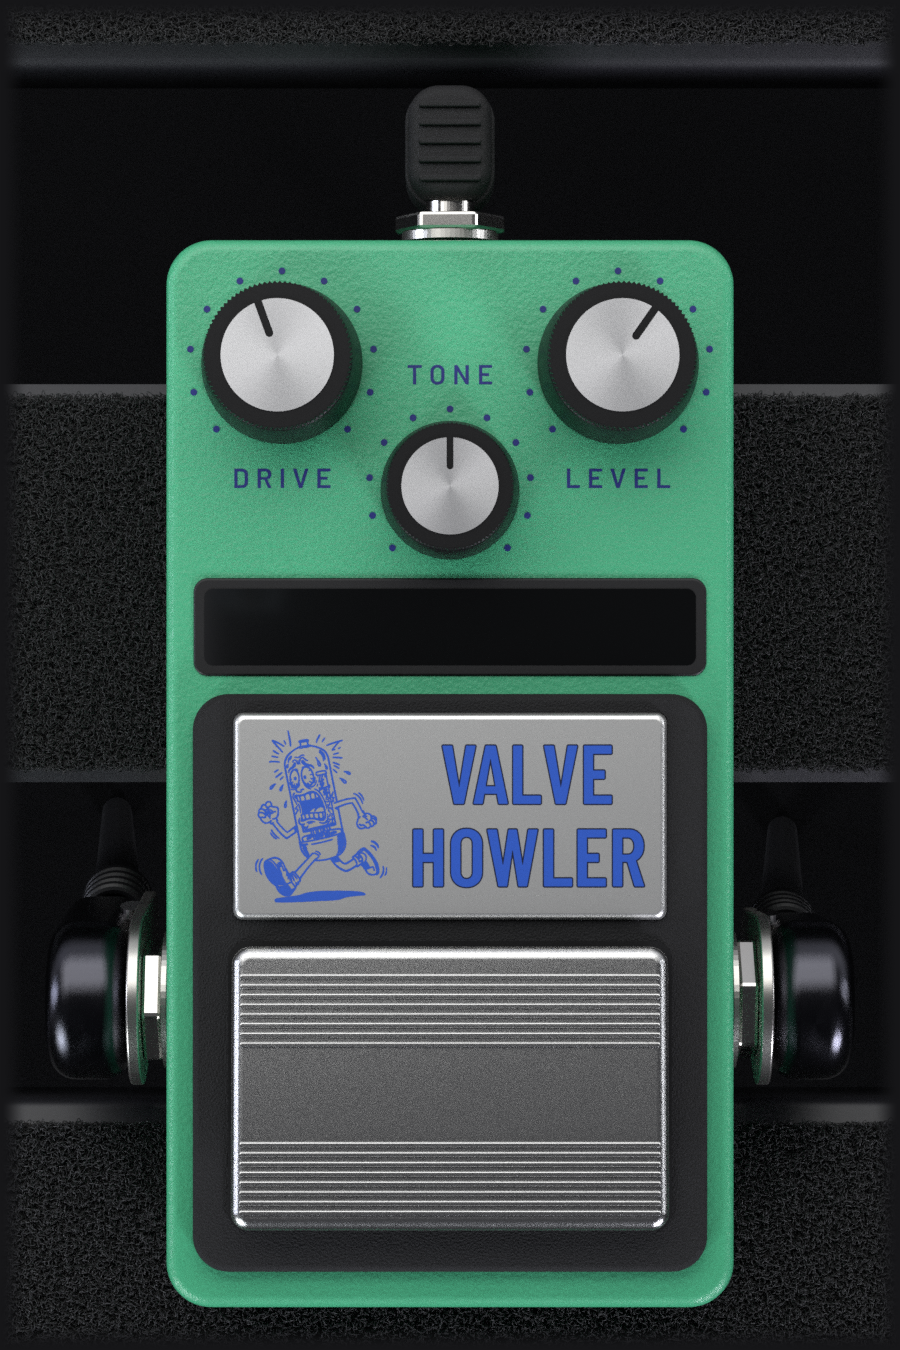
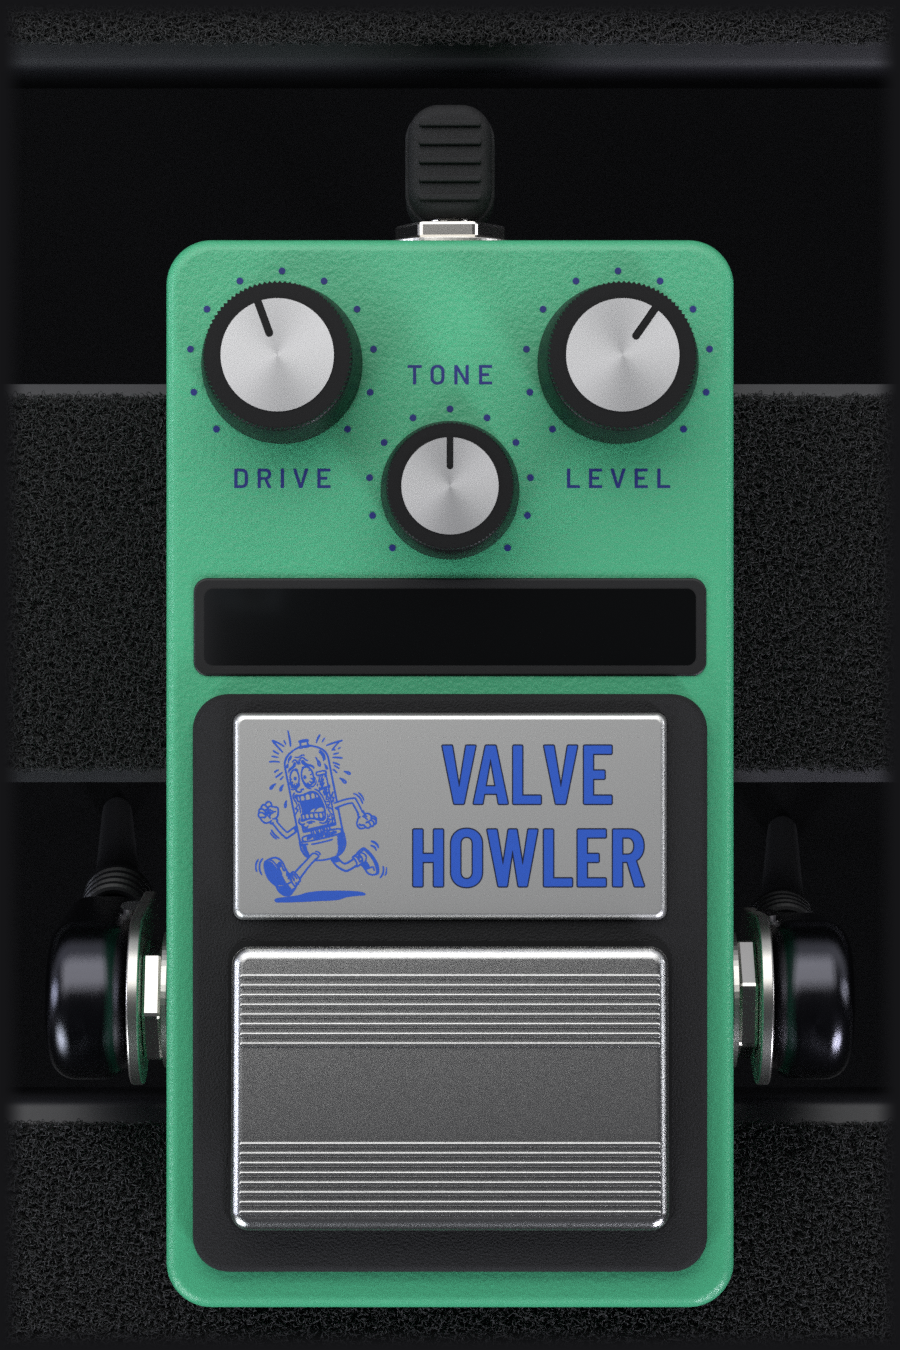
Valve Howler 1.4.4

diff --git a/src/ui_x11.cpp b/src/ui_x11.cpp
@@ -55,8 +55,13 @@
 #include <chrono>
 #include <cmath>
 #include <cstdint>
+#include <cstdlib>
 #include <cstring>
 #include <string>
+
+// Declared weak: libX11 before 1.7 has no per-connection I/O exit handler, and
+// the UI must still load there.
+#pragma weak XSetIOErrorExitHandler
 
 #define NLSC_UI_URI "https://nylarea.com/plugins/valvehowler#ui"
 
@@ -117,6 +122,7 @@ struct UI {
     Visual*  visual = nullptr;
     int      depth  = 0;                // the parent's; the popup uses it too
     Colormap cmap   = 0;                // ours, when the parent's visual is not the default
+    bool     x_dead = false;            // our connection is gone: no X call any more, the host closes us
     cairo_surface_t* surf = nullptr;
     cairo_t*         cr   = nullptr;
 
@@ -360,16 +366,19 @@ void popup_close(UI* ui)
 {
     Popup& p = ui->popup;
     if (!p.is_open) return;
-    XUngrabPointer(ui->dpy, CurrentTime);
-    XUngrabKeyboard(ui->dpy, CurrentTime);
+    const bool live = !ui->x_dead;
+    if (live) {
+        XUngrabPointer(ui->dpy, CurrentTime);
+        XUngrabKeyboard(ui->dpy, CurrentTime);
+    }
     if (p.bufcr) { cairo_destroy(p.bufcr); p.bufcr = nullptr; }
     if (p.buf)   { cairo_surface_destroy(p.buf); p.buf = nullptr; }
     if (p.cr)    { cairo_destroy(p.cr);   p.cr = nullptr; }
     if (p.surf)  { cairo_surface_destroy(p.surf); p.surf = nullptr; }
-    if (p.win)   { XDestroyWindow(ui->dpy, p.win); p.win = 0; }
+    if (p.win)   { if (live) XDestroyWindow(ui->dpy, p.win); p.win = 0; }
     p.is_open = false;
     p.hover = -1;
-    XFlush(ui->dpy);
+    if (live) XFlush(ui->dpy);
 }
 
 void popup_open(UI* ui)
@@ -666,31 +675,96 @@ void on_event(UI* ui, XEvent* ev)
 // 32-bit ARGB parent) or one the server does not know raises one. While any
 // instance of this UI is alive, a handler records errors on our connections and
 // hands every other error to whatever handler was installed before (the host's).
-// The handler is process-wide by Xlib's design, so it is installed with the
-// first instance and restored with the last.
+// The handler is process-wide by Xlib's design: it is installed ONCE per
+// process, with the first instance, and never put back. Putting the previous one
+// back with the last instance makes a cycle after a close and a reopen: a
+// handler installed after ours (or a second copy of this code, another pedal of
+// the family) chains to ours, and the reopen takes that handler as "previous" --
+// the host's next X error then loops for ever. Leaving ours installed is safe
+// only because the module is never unloaded: it is linked -z nodelete.
 // NLSC_UI_PARENT_VISUAL=0 builds a plain window with the default visual and no
-// error handler; it is not used by the plugin.
+// error handler; NLSC_UI_RESTORE_HANDLERS=1 installs the handler with the first
+// instance and puts the previous one back with the last. Both are for the gates'
+// negative arms only (harness/test_ui_parent.cpp, harness/test_ui_cycle.c).
 #ifndef NLSC_UI_PARENT_VISUAL
 #define NLSC_UI_PARENT_VISUAL 1
 #endif
+#ifndef NLSC_UI_RESTORE_HANDLERS
+#define NLSC_UI_RESTORE_HANDLERS 0
+#endif
 
 #if NLSC_UI_PARENT_VISUAL
+// Our connections are tracked in a list with no fixed size: an instance that
+// could not be tracked would hand its own errors to the host's handler, so when
+// the list cannot grow the instance is refused instead. The globals are not
+// locked: an LV2 host drives its UIs from its one UI thread (lv2/ui/ui.h).
 int (*g_prev_x_handler)(Display*, XErrorEvent*) = nullptr;
 int  g_ui_instances = 0;
-Display* g_ui_displays[16] = {};
+Display** g_ui_displays = nullptr;
+int  g_ui_ndisplays = 0, g_ui_cap = 0;
 bool g_x_error = false;
+bool g_handler_installed = false;
+
+// I/O errors take two handlers in Xlib: the process-wide one runs first and, by
+// default, exit()s the process -- the host; the per-connection exit handler
+// (ui_io_exit, libX11 1.7 and later) runs after it. Our process-wide handler,
+// installed once with the X error one and never put back, returns for OUR
+// connections (the exit handler then marks the instance dead, and the host is
+// asked to close it) and hands every other connection's error to the handler
+// installed before it: the host's own I/O errors behave as without us. On a
+// libX11 older than 1.7 Xlib still exits after ours returns.
+// NLSC_UI_NO_IO_EXIT=1 leaves Xlib's default I/O handling, and
+// NLSC_UI_SHIELD_CAP > 0 restores a fixed-size list that silently leaves the
+// extra connections untracked: both for the gates' negative arms only
+// (harness/test_ui_shield.c).
+#ifndef NLSC_UI_NO_IO_EXIT
+#define NLSC_UI_NO_IO_EXIT 0
+#endif
+#ifndef NLSC_UI_SHIELD_CAP
+#define NLSC_UI_SHIELD_CAP 0
+#endif
+int (*g_prev_io_handler)(Display*) = nullptr;
+
+bool is_ours(Display* d)
+{
+    for (int i = 0; i < g_ui_ndisplays; ++i)
+        if (g_ui_displays[i] == d) return true;
+    return false;
+}
 
 int ui_x_error(Display* d, XErrorEvent* e)
 {
-    for (Display* ours : g_ui_displays)
-        if (ours == d) { g_x_error = true; return 0; }
+    if (is_ours(d)) { g_x_error = true; return 0; }
     return g_prev_x_handler ? g_prev_x_handler(d, e) : 0;
 }
 
-void track_display(Display* d, bool add)
+int ui_io_error(Display* d)
 {
-    for (Display*& slot : g_ui_displays)
-        if (add ? slot == nullptr : slot == d) { slot = add ? d : nullptr; return; }
+    if (is_ours(d)) return 0;
+    return g_prev_io_handler ? g_prev_io_handler(d) : 0;
+}
+
+void ui_io_exit(Display*, void* user) { static_cast<UI*>(user)->x_dead = true; }
+
+// false when the list cannot grow (the caller then refuses the instance)
+bool track_display(Display* d, bool add)
+{
+    if (!add) {
+        for (int i = 0; i < g_ui_ndisplays; ++i)
+            if (g_ui_displays[i] == d) { g_ui_displays[i] = g_ui_displays[--g_ui_ndisplays]; break; }
+        if (g_ui_ndisplays == 0) { std::free(g_ui_displays); g_ui_displays = nullptr; g_ui_cap = 0; }
+        return true;
+    }
+    if (NLSC_UI_SHIELD_CAP > 0 && g_ui_ndisplays >= NLSC_UI_SHIELD_CAP) return true;
+    if (g_ui_ndisplays == g_ui_cap) {
+        const int cap = g_ui_cap ? 2 * g_ui_cap : 8;
+        auto* grown = static_cast<Display**>(std::realloc(g_ui_displays, size_t(cap) * sizeof(Display*)));
+        if (!grown) return false;
+        g_ui_displays = grown;
+        g_ui_cap = cap;
+    }
+    g_ui_displays[g_ui_ndisplays++] = d;
+    return true;
 }
 #endif
 
@@ -745,6 +819,9 @@ LV2UI_Handle instantiate(const LV2UI_Descriptor*, const char*, const char* bundl
 
     ui->dpy = XOpenDisplay(nullptr);
     if (!ui->dpy) { delete ui; return nullptr; }
+#if NLSC_UI_PARENT_VISUAL
+    if (!NLSC_UI_NO_IO_EXIT && XSetIOErrorExitHandler) XSetIOErrorExitHandler(ui->dpy, ui_io_exit, ui);
+#endif
 
     const int screen = DefaultScreen(ui->dpy);
     ui->visual = DefaultVisual(ui->dpy, screen);
@@ -753,8 +830,12 @@ LV2UI_Handle instantiate(const LV2UI_Descriptor*, const char*, const char* bundl
     ui->parent = parent ? parent : ui->root;
 
 #if NLSC_UI_PARENT_VISUAL
-    if (g_ui_instances++ == 0) { g_x_error = false; g_prev_x_handler = XSetErrorHandler(ui_x_error); }
-    track_display(ui->dpy, true);
+    if (!track_display(ui->dpy, true)) { XCloseDisplay(ui->dpy); delete ui; return nullptr; }
+    if (g_ui_instances++ == 0 && (NLSC_UI_RESTORE_HANDLERS || !g_handler_installed)) {
+        g_handler_installed = true;
+        g_prev_x_handler = XSetErrorHandler(ui_x_error);
+        if (!NLSC_UI_NO_IO_EXIT) g_prev_io_handler = XSetIOErrorHandler(ui_io_error);
+    }
     g_x_error = false;
     // The window takes the parent's visual and depth, and so does the cairo
     // surface: a child of another depth cannot be drawn into its parent.
@@ -837,14 +918,21 @@ void cleanup(LV2UI_Handle handle)
     if (ui->buf)      cairo_surface_destroy(ui->buf);
     if (ui->cr)       cairo_destroy(ui->cr);
     if (ui->surf)     cairo_surface_destroy(ui->surf);
-    if (ui->win)      XDestroyWindow(ui->dpy, ui->win);
-    if (ui->cmap)     XFreeColormap(ui->dpy, ui->cmap);
+    const bool live = ui->dpy && !ui->x_dead;
+    if (live && ui->win)  XDestroyWindow(ui->dpy, ui->win);
+    if (live && ui->cmap) XFreeColormap(ui->dpy, ui->cmap);
     if (ui->dpy) {
-        XSync(ui->dpy, False);
+        // A dead connection is closed too, without the sync: Xlib skips the
+        // server round trip on a connection that had its I/O error, and frees
+        // the Display and its socket.
+        if (live) XSync(ui->dpy, False);
         XCloseDisplay(ui->dpy);
 #if NLSC_UI_PARENT_VISUAL
         track_display(ui->dpy, false);
-        if (--g_ui_instances == 0) XSetErrorHandler(g_prev_x_handler);
+        if (--g_ui_instances == 0 && NLSC_UI_RESTORE_HANDLERS) {
+            XSetErrorHandler(g_prev_x_handler);
+            if (!NLSC_UI_NO_IO_EXIT) XSetIOErrorHandler(g_prev_io_handler);
+        }
 #endif
     }
     delete ui;
@@ -885,8 +973,8 @@ void port_event(LV2UI_Handle handle, uint32_t port, uint32_t buffer_size,
 int ui_idle(LV2UI_Handle handle)
 {
     auto* ui = static_cast<UI*>(handle);
-    if (!ui->dpy) return 1;
-    while (XPending(ui->dpy)) {
+    if (!ui->dpy || ui->x_dead) return 1;   // non-zero: the UI asks the host to close it
+    while (!ui->x_dead && XPending(ui->dpy)) {
         XEvent ev;
         XNextEvent(ui->dpy, &ev);
         if (ui->popup.is_open &&
@@ -908,6 +996,7 @@ int ui_idle(LV2UI_Handle handle)
     // Polled, not an event: under XWayland the grabs do not stop a Wayland
     // window taking the focus, and the FocusOut they raise also fires when the
     // grab is merely refused.
+    if (ui->x_dead) return 1;
     if (ui->popup.is_open) {
         Window fw = 0; int revert = 0;
         XGetInputFocus(ui->dpy, &fw, &revert);

diff --git a/src/nls_stage2.h b/src/nls_stage2.h
@@ -415,7 +415,7 @@ public:
             const double base = w + kRO * (iF + Ie) * invDd;
             double u = v5, hp = 1.0;
             for (int k = 0; k < kSlewIt; ++k) {
-                const double t  = std::tanh(gm_ * (x - u) * inv_imax_);
+                const double t  = NLSC_TANH(gm_ * (x - u) * inv_imax_);
                 const double v2 = (imax_ * t + s2) * iY2;
                 double v3 = v2, dv3 = -gm_ * (1.0 - t * t) * iY2;
                 if (v2 <= kVeeSat)      { v3 = kVeeSat; dv3 = 0.0; }
@@ -445,6 +445,11 @@ public:
 #else
 #  define NLSC_E2_HOT_CACHE 0
 #endif
+    __attribute__((noinline, cold))
+    double v2_slew(double x, double v5, double s2) const
+    {
+        return imax_ * NLSC_TANH(gm_ * (x - v5) * inv_imax_) + s2;
+    }
     __attribute__((noinline))
     bool solve_hot(double x, double c, double s2, double w_flat,
                    double& w, double& v5
@@ -726,7 +731,7 @@ public:
 #if NLSC_E2_HOIST
 #if NLSC_E2_SLEW
         if (NLSC_E2_SLEW == 1 || slew_on_)
-            v2_ = (imax_ * std::tanh(gm_ * (x - v5) * inv_imax_) + s2) * invY2_;
+            v2_ = v2_slew(x, v5, s2) * invY2_;
         else
             v2_ = (gm_ * (x - v5) + s2) * invY2_;
 #else
@@ -734,7 +739,7 @@ public:
 #endif
 #elif NLSC_E2_SLEW
         if (NLSC_E2_SLEW == 1 || slew_on_)
-            v2_ = (imax_ * std::tanh(gm_ * (x - v5) * inv_imax_) + s2) / Y2;
+            v2_ = v2_slew(x, v5, s2) / Y2;
         else
             v2_ = (gm_ * (x - v5) + s2) / Y2;
 #else

diff --git a/src/ui_fonts.h b/src/ui_fonts.h
@@ -11,8 +11,10 @@
 // Each `cairo_font_face_t` owns a PRIVATE `FT_Library` holding its one `FT_Face`,
 // hung on the face as user data whose destructor is FreeType's own
 // `FT_Done_FreeType`. Cairo keeps faces in a process-wide cache past our destroy,
-// possibly after the host has closed the editor and unloaded this module (built
-// with -fvisibility=hidden, it really unloads); when Cairo finally drops the face,
+// possibly after the host has closed the editor and unloaded this module (the
+// shipped module is linked -z nodelete and stays mapped; a build without it,
+// with -fvisibility=hidden, really unloads, and the fonts must not depend on
+// which); when Cairo finally drops the face,
 // FreeType frees the library and the face, and nothing calls back into this
 // module (ValveHowler#11: with a destructor in the module the host jumped into
 // unmapped code; gate `make ui-unload`).

diff --git a/CHANGELOG.md b/CHANGELOG.md
@@ -8,6 +8,25 @@ numbers.
 
 ---
 
+## 1.4.4 — 2026-10-25
+
+Sessions saved with 1.4.2 load unchanged, and the sound is the same.
+
+- **Closing and reopening the editor can no longer freeze the host.** With two of these
+  editors open, or next to another plugin that watches the same kind of display errors,
+  closing and reopening one could leave the host stuck at full CPU on its next display
+  error. The interface now installs its error guard once and never hands it back.
+- **The host survives the display going away under the editor.** If the window system
+  dropped the editor's connection, the host could be shut down with it. Now only the
+  editor closes. Any number of editors can be open at once without their errors
+  reaching the host.
+- **Less CPU when driven hard.** The second stage's slew limiting is computed more
+  cheaply. The output is unchanged.
+- **The DC jack is drawn properly seated**, nut on its washer and plug pushed home, and
+  the bundle now carries its licence file.
+
+---
+
 ## 1.4.2 — 2026-10-18
 
 Sessions saved with 1.4.0 load unchanged, and the sound is the same.
